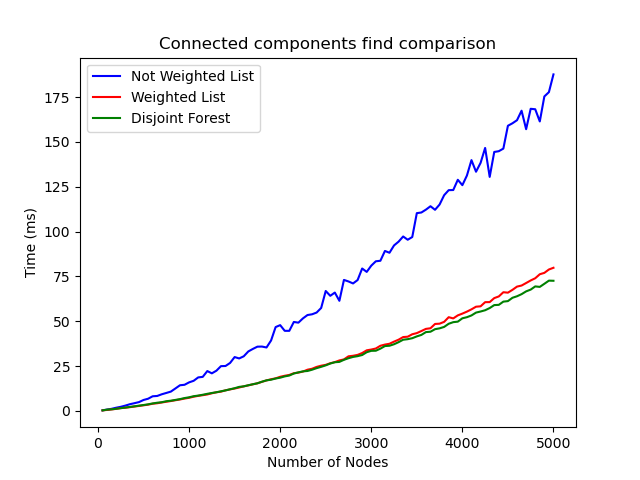
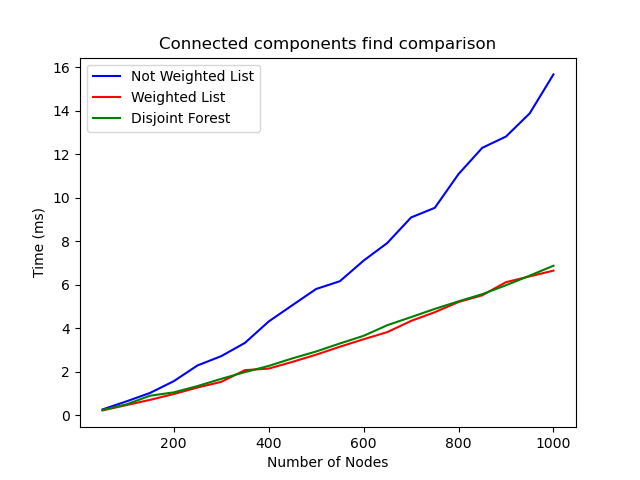
little changes pt.2

diff --git a/main.py b/main.py
@@ -8,10 +8,10 @@ import numpy as np
 import pandas as pd
 import os
 
-n_nodes_1 = 5050
+n_nodes_1 = 1050
 n_repeats = 30
 step_1 = 50
-n_nodes_2 = 15100
+n_nodes_2 = 2100
 step_2 = 100
 
 
@@ -120,39 +120,48 @@ def main():
     plt.show()
     #create table, split in 3 parts
     data = {'Number of Nodes': x_axis, 'Not Weighted List': nw_times, 'Weighted List': w_times, 'Disjoint Forest': f_times}
+
     df = pd.DataFrame(data)
-    df1 = df.iloc[:40, :]
-    df2 = df.iloc[40:70, :]
-    df3 = df.iloc[70:, :]
+    if len(df.columns)>50:
+        df1 = df.iloc[:40, :]
+        df2 = df.iloc[40:70, :]
+        df3 = df.iloc[70:, :]
+        plt.clf()
+        plt.figure(figsize=(10, 10))
+        plt.title("Table of results")
+        plt.axis('off')
+        table = plt.table(cellText=df1.values, colLabels=df1.columns, loc='center')
+        table.auto_set_font_size(False)
+        table.set_fontsize(12)
+        plt.savefig('tables/table_1.png')
+        plt.show()
 
-    plt.clf()
-    plt.figure(figsize=(10, 10))
-    plt.title("Table of results")
-    plt.axis('off')
-    table = plt.table(cellText=df1.values, colLabels=df1.columns, loc='center')
-    table.auto_set_font_size(False)
-    table.set_fontsize(12)
-    plt.savefig('tables/table_1.png')
-    plt.show()
+        plt.clf()
+        plt.figure(figsize=(10, 7))
+        plt.axis('off')
+        table = plt.table(cellText=df2.values, colLabels=df2.columns, loc='center')
+        table.auto_set_font_size(False)
+        table.set_fontsize(12)
+        plt.savefig('tables/table_2.png')
+        plt.show()
 
-    plt.clf()
-    plt.figure(figsize=(10, 7))
-    plt.axis('off')
-    table = plt.table(cellText=df2.values, colLabels=df2.columns, loc='center')
-    table.auto_set_font_size(False)
-    table.set_fontsize(12)
-    plt.savefig('tables/table_2.png')
-    plt.show()
-    plt.clf()
-
-
-    plt.figure(figsize=(10, 7))
-    plt.axis('off')
-    table = plt.table(cellText=df3.values, colLabels=df3.columns, loc='center')
-    table.auto_set_font_size(False)
-    table.set_fontsize(12)
-    plt.savefig('tables/table_3.png')
-    plt.show()
+        plt.clf()
+        plt.figure(figsize=(10, 7))
+        plt.axis('off')
+        table = plt.table(cellText=df3.values, colLabels=df3.columns, loc='center')
+        table.auto_set_font_size(False)
+        table.set_fontsize(12)
+        plt.savefig('tables/table_3.png')
+        plt.show()
+    else:
+        plt.clf()
+        plt.figure(figsize=(10, 7))
+        plt.axis('off')
+        table = plt.table(cellText=df.values, colLabels=df.columns, loc='center')
+        table.auto_set_font_size(False)
+        table.set_fontsize(12)
+        plt.savefig('tables/table.png')
+        plt.show()
 
     # Test 2
     x_axis = range(step_2, n_nodes_2, step_2)
